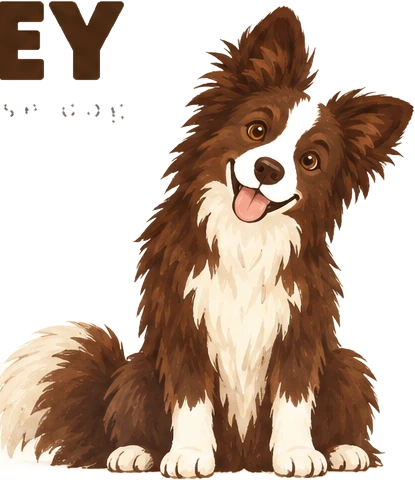
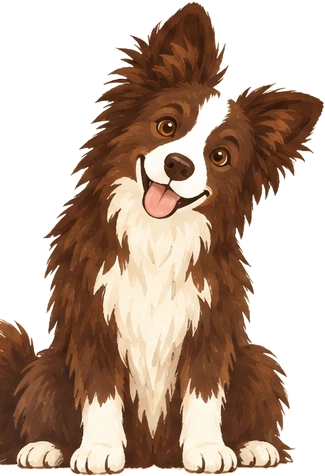
Shop: card colors, clip posters, hero bubble, mobile room cards, clean sit cut-out, mock hook for local review
Claude-Session: https://claude.ai/code/session_01BBZR6Pf4PK7Zm5t1jsWumt

diff --git a/src/shop/shop.css b/src/shop/shop.css
@@ -123,16 +123,19 @@ img{max-width:100%;display:block}
 .s-shelf-box.b0{top:4%;inset-inline-start:6%;--rot:-6deg}.s-shelf-box.b1{top:0;inset-inline-start:42%;--rot:4deg;width:clamp(110px,13vw,180px)}.s-shelf-box.b2{top:26%;inset-inline-end:0;--rot:-3deg}
 .s-shelf-box.b3{top:44%;inset-inline-start:0;--rot:5deg}.s-shelf-box.b4{top:52%;inset-inline-start:34%;--rot:-2deg;width:clamp(80px,9vw,120px)}.s-shelf-box.b5{bottom:0;inset-inline-end:8%;--rot:6deg;width:clamp(100px,12vw,160px)}.s-shelf-box.b6{bottom:10%;inset-inline-start:14%;--rot:-8deg;width:clamp(70px,8vw,110px)}
 .s-hero-joey{position:absolute;bottom:-34px;inset-inline-end:clamp(0px,4vw,60px);width:clamp(260px,34vw,480px);z-index:2;filter:drop-shadow(0 24px 24px rgba(60,40,20,.28))}
-.s-greet{display:block;width:100%;aspect-ratio:16/9;transform:scale(1.55) translateY(-8%);transform-origin:50% 100%}
-.s-greet canvas,.s-greet .clip-poster{width:100%;height:100%;object-fit:contain}
-.s-greet .clip-poster{object-fit:contain;transform:scale(.62)}
-.s-hero-bubble{position:absolute;top:-6%;inset-inline-start:-18%;width:min(280px,70%);background:var(--paper);border-radius:18px;padding:14px 16px;box-shadow:var(--shadow);display:grid;gap:4px;z-index:3}
+.s-greet{display:block;width:100%;aspect-ratio:16/9}
+.s-greet canvas{width:100%;height:100%;object-fit:contain;transform:scale(1.55) translateY(-8%);transform-origin:50% 100%}
+.s-greet .clip-poster{position:absolute;bottom:0;left:50%;transform:translateX(-50%);width:62%;max-height:none}
+.s-greet.fallback{aspect-ratio:auto;height:clamp(260px,30vw,420px)}
+.s-hero-bubble{position:absolute;top:-2%;inset-inline-end:72%;width:min(260px,60vw);background:var(--paper);border-radius:18px;padding:14px 16px;box-shadow:var(--shadow);display:grid;gap:4px;z-index:3}
 .s-hero-bubble b{font-weight:900}
-.s-hero-bubble::after{content:"";position:absolute;bottom:-10px;inset-inline-end:28px;width:20px;height:20px;background:var(--paper);transform:rotate(45deg);border-radius:4px}
+.s-hero-bubble::after{content:"";position:absolute;bottom:14px;inset-inline-start:-8px;width:20px;height:20px;background:var(--paper);transform:rotate(45deg);border-radius:4px}
 .s-hero-floor{position:absolute;left:0;right:0;bottom:0;height:34px;background:var(--oak);background-image:repeating-linear-gradient(90deg, rgba(0,0,0,.08) 0 2px, transparent 2px 160px), linear-gradient(180deg, rgba(0,0,0,.12), transparent 40%)}
 .clip{display:block;position:relative}
 .clip canvas{display:block;width:100%;height:auto;transition:opacity .4s}
-.clip .clip-poster{position:absolute;inset:0;margin:auto;max-height:100%}
+.clip .clip-poster{position:absolute;inset:0;margin:auto;max-height:100%;object-fit:contain}
+.clip.fallback{display:grid;place-items:end center}
+.clip.fallback .clip-poster{position:static;width:70%;max-height:100%}
 
 /* ---------- rooms (four bricks) ---------- */
 .s-rooms{display:grid;grid-template-columns:repeat(4,1fr);gap:18px;margin-top:22px}
@@ -150,12 +153,12 @@ img{max-width:100%;display:block}
 .s-section-head{display:flex;align-items:flex-end;justify-content:space-between;gap:16px;margin-bottom:22px}
 .s-section-joey{width:84px;transform:rotate(6deg)}
 .s-grid{display:grid;grid-template-columns:repeat(4,1fr);gap:20px}
-.s-card{position:relative;background:var(--paper);border-radius:var(--r);display:grid;grid-template-rows:auto auto 1fr auto;padding:14px 14px 12px;box-shadow:0 1px 0 var(--line), 0 8px 20px rgba(60,40,20,.06);transition:transform .25s var(--ease),box-shadow .25s var(--ease);--c:var(--ink)}
+.s-card{position:relative;background:var(--paper);color:var(--ink);border-radius:var(--r);display:grid;grid-template-rows:auto auto 1fr auto;padding:14px 14px 12px;box-shadow:0 1px 0 var(--line), 0 8px 20px rgba(60,40,20,.06);transition:transform .25s var(--ease),box-shadow .25s var(--ease)}
 .s-card:hover{transform:translateY(-6px);box-shadow:0 1px 0 var(--line), var(--shadow-2)}
 .s-card.bump{animation:bump .6s var(--ease)}
 @keyframes bump{30%{transform:translateY(-10px) scale(1.02)}}
 .s-card-studs{position:absolute;top:-7px;left:18px;right:18px;display:flex;justify-content:space-between;pointer-events:none}
-.s-card-studs i{width:14px;height:8px;border-radius:7px 7px 3px 3px;background:var(--c);box-shadow:inset 0 2px 0 rgba(255,255,255,.3)}
+.s-card-studs i{width:14px;height:8px;border-radius:7px 7px 3px 3px;background:var(--c,var(--ink));box-shadow:inset 0 2px 0 rgba(255,255,255,.3)}
 .s-card-pic{display:block;aspect-ratio:1;border-radius:10px;overflow:hidden;background:linear-gradient(180deg,#fff,var(--bg))}
 .s-card-pic img{width:100%;height:100%;object-fit:contain;padding:8px;transition:transform .35s var(--ease)}
 .s-card:hover .s-card-pic img{transform:scale(1.06) rotate(-1.5deg)}
@@ -258,6 +261,7 @@ img{max-width:100%;display:block}
 .s-drawer-empty b{font-size:20px;font-weight:900}
 .s-drawer-empty span{color:var(--ink-2)}
 .s-napclip{width:100%;max-width:340px;aspect-ratio:16/9}
+.s-napclip.fallback .clip-poster{width:60%}
 .s-lines{list-style:none;margin:0;padding:12px 16px;overflow:auto;display:grid;gap:10px;align-content:start}
 .s-lines li{display:grid;grid-template-columns:72px 1fr auto;gap:12px;align-items:center;background:var(--paper);border-radius:14px;padding:10px;border-inline-start:5px solid var(--c)}
 .s-lines img{width:72px;height:72px;object-fit:contain;background:#fff;border-radius:8px}
@@ -331,7 +335,9 @@ img{max-width:100%;display:block}
 .s-footer{background:var(--cocoa);background-image:repeating-linear-gradient(0deg, rgba(0,0,0,.12) 0 2px, transparent 2px 46px), linear-gradient(90deg, rgba(0,0,0,.12), transparent 25%, transparent 75%, rgba(0,0,0,.12));color:#f3e7d4;margin-top:40px}
 .s-footer-in{display:grid;grid-template-columns:300px 1fr;gap:28px;align-items:end;padding-block:0 28px}
 .s-footer-joey{align-self:end}
-.s-peek{width:300px;aspect-ratio:16/9;transform:scale(1.5) translateY(6%);transform-origin:50% 100%}
+.s-peek{width:300px;aspect-ratio:16/9}
+.s-peek canvas{transform:scale(1.5) translateY(6%);transform-origin:50% 100%}
+.s-peek.fallback .clip-poster{width:80%}
 .s-footer-text{display:grid;gap:10px;padding-top:28px}
 .s-footer-text p{font-size:13px;opacity:.85;max-width:70ch}
 .s-footer-made a{color:#fff}
@@ -381,10 +387,12 @@ img{max-width:100%;display:block}
   .s-hero-in{grid-template-columns:1fr;min-height:0;gap:8px}
   .s-hero-stage{height:clamp(300px,70vw,420px);margin-top:10px}
   .s-hero-joey{width:clamp(220px,52vw,320px);inset-inline-end:0}
-  .s-hero-bubble{inset-inline-start:auto;inset-inline-end:60%;width:200px;top:0}
+  .s-hero-bubble{inset-inline-end:62%;width:min(220px,48vw);top:0}
   .s-shelf-box.b1,.s-shelf-box.b4{display:none}
   .s-rooms{grid-template-columns:repeat(2,1fr);gap:14px}
-  .s-room{min-height:130px;padding:26px 16px 16px}
+  .s-room{min-height:130px;padding:30px 14px 14px}
+  .s-room b{font-size:19px}
+  .s-room em{top:10px;font-size:18px;inset-inline-end:14px}
   .s-promise-row{grid-template-columns:1fr}
   .s-product-grid,.s-co-grid,.s-feature{grid-template-columns:1fr}
   .s-footer-in{grid-template-columns:1fr;justify-items:center;text-align:center}

diff --git a/src/shop/data.ts b/src/shop/data.ts
@@ -32,6 +32,8 @@ export async function loadShop(force = false) {
   if (cache && !force && Date.now() - cache.at < 60_000) return cache
   if (inflight) return inflight
   inflight = (async () => {
+    const mock = (window as unknown as { __BS_MOCK?: { items: ShopItem[]; config: ShopConfig } }).__BS_MOCK
+    if (mock) { cache = { items: mock.items.map(d => ({ ...d, id: d.demo ? 'demo-' + d.set_num : d.id })), config: mock.config, at: Date.now() }; inflight = null; return cache }
     const [cfgRes, liveRes] = await Promise.all([
       supabase.rpc('bs_shop_config'),
       supabase.from('bs_shop').select('*').order('created_at', { ascending: false }).limit(1000),
@@ -65,6 +67,7 @@ export function useShop() {
 }
 
 export async function loadCatalogSet(set_num: string): Promise<CatalogSet | null> {
+  if ((window as unknown as { __BS_MOCK?: unknown }).__BS_MOCK) return null
   const { data } = await supabase.from('bs_shop_catalog').select('*').eq('set_num', set_num).maybeSingle()
   return (data as CatalogSet) || null
 }

diff --git a/src/shop/joey.tsx b/src/shop/joey.tsx
@@ -65,7 +65,7 @@ export function Clip({ src, poster, className = '', loop = true, playing = true,
 
   useEffect(() => { const v = videoRef.current; if (!v) return; if (playing) v.play().catch(() => { }); else v.pause() }, [playing])
 
-  if (fallback) return poster ? <img src={poster} alt="" className={className} style={style} /> : null
+  if (fallback) return <span className={'clip fallback ' + className} style={style}>{poster && <img src={poster} alt="" className="clip-poster" />}</span>
   return <span className={'clip ' + className} style={style}>
     {!ready && poster && <img src={poster} alt="" className="clip-poster" />}
     <canvas ref={canvasRef} aria-hidden="true" style={{ opacity: ready ? 1 : 0 }} />
